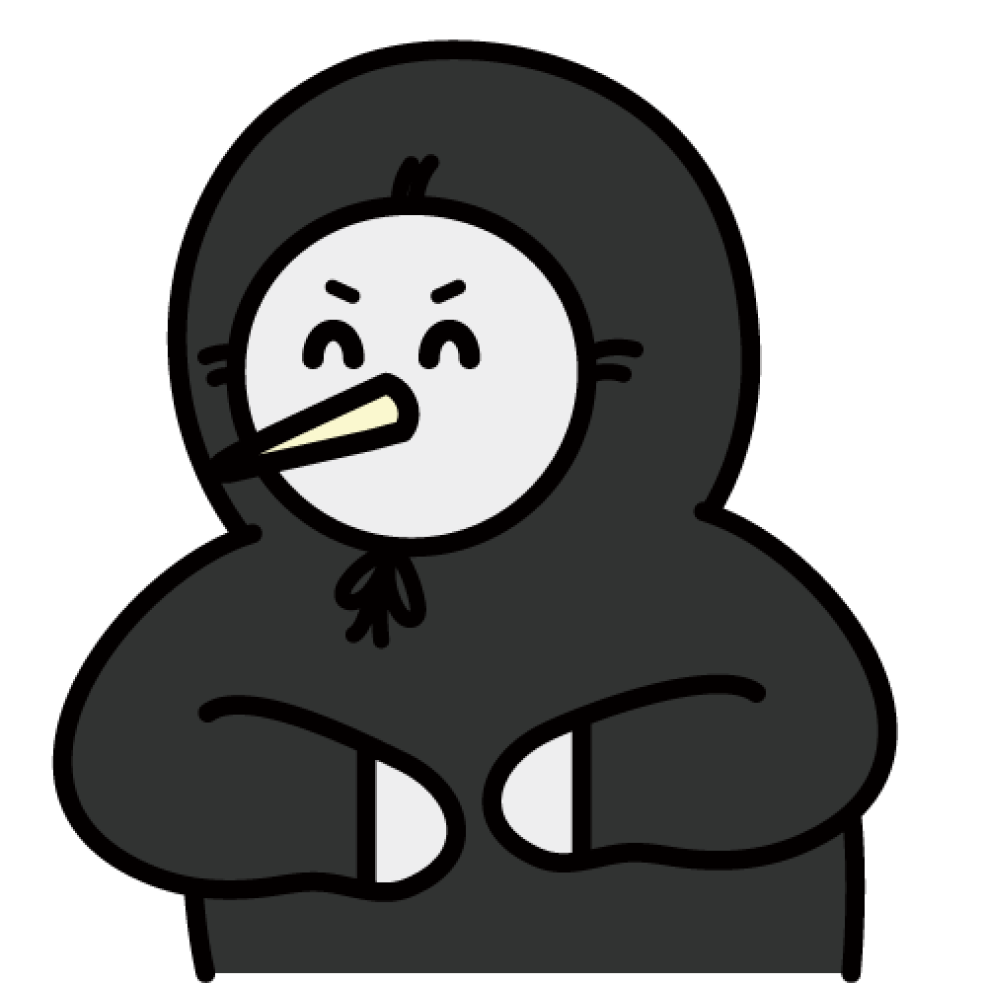
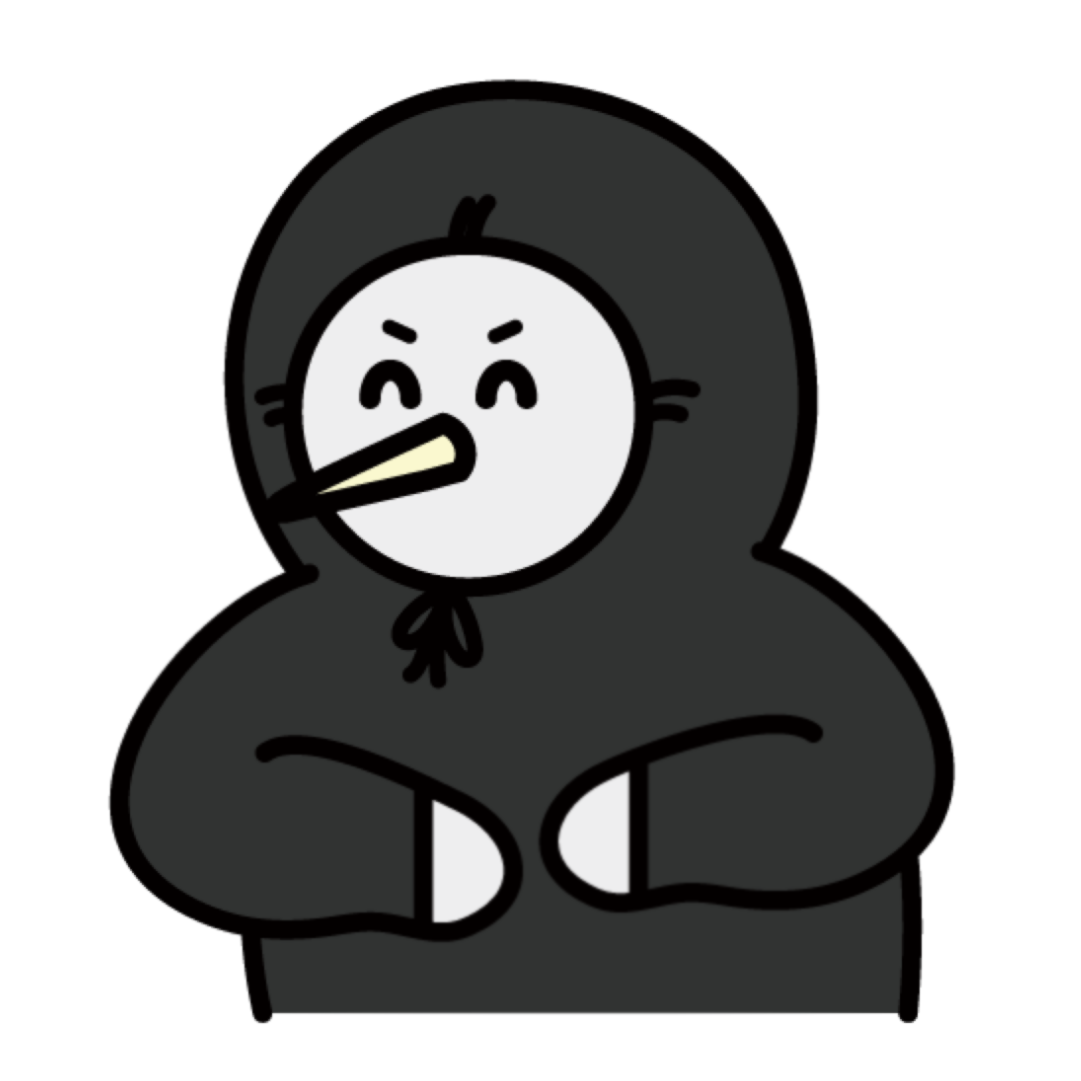
feat: 머쓱이 이미지 수정 (#182)
* design: 머쓱 테이블 및 이미지 변경

* design: 위치 틀어진 머쓱 이미지 수정

* design: 디폴트 머쓱 이미지 롤백

* design: 테이블 이미지 삭제

* fix: 메인페이지 머쓱이 이미지 나가는 버그 수정 및 스타일 정리

Changed region(s): [[0.0304, 0.0304, 0.9119, 1.0], [0.5775, 0.3343, 0.6687, 0.4255], [0.5471, 0.4255, 0.5775, 0.4863]]

diff --git a/packages/web/src/pages/Newpost/index.tsx b/packages/web/src/pages/Newpost/index.tsx
@@ -122,7 +122,7 @@ const NewPost = () => {
 
   return (
     <Box bgColor="bg01">
-      <Box p="2rem" margin="auto" w="100%" maxW="50rem" textAlign="center">
+      <Box p={{ base: '0.5rem', sm: '1rem', md: '2rem' }} margin="auto" w="100%" maxW="50rem" textAlign="center">
         <Text marginBottom="1rem" textAlign="left" fontSize="1.4rem" color="black">
           머쓱이 이름
         </Text>
@@ -162,40 +162,29 @@ const NewPost = () => {
         <Text textAlign="left" fontSize="1.4rem" color="black">
           머쓱이 테마
         </Text>
-        <Box
-          margin="auto"
-          h={{
-            base: '5rem',
-            '2xs': '16rem',
-            xs: '20rem',
-            sm: '25rem'
-          }}
-          p={4}>
+        <Box margin="auto" p={4} h={'90vw'} maxH={'25rem'} w={'90vw'} maxW={'25rem'} position={'relative'}>
           <Image
-            w="100%"
-            maxW="25rem"
-            mt={{
-              '2xs': '2rem'
-            }}
-            margin="auto"
             src={MUSSEUK[selected].src || musseuk_semicolon}
-            transform={MUSSEUK[selected].selectedTransform}
             alt="musseukImage"
+            m={'auto'}
+            position={'relative'}
+            zIndex={1}
+          />
+          <Box w={'50%'} h={'12%'} position={'absolute'} left={'25%'} bottom={'0%'} backgroundColor={'yellow.400'} />
+          <Box
+            w={'50%'}
+            h={'10%'}
+            borderRadius={'50%'}
+            bottom={'7%'}
+            left={'25%'}
+            position={'absolute'}
+            backgroundColor={'yellow.300'}
           />
         </Box>
         <Box cursor="pointer" bgColor="white" width="auto" borderRadius="10px" border="1px" borderColor="#D4D8CA">
           <Flex justify="center">
             {Object.entries(MUSSEUK).map(([key, value]) => (
-              <MusseukItem
-                key={key}
-                alt={key}
-                src={value.src}
-                transform={{
-                  base: value.smallTransform,
-                  sm: value.transform
-                }}
-                onClick={handleClickMusseuk}
-              />
+              <MusseukItem key={key} alt={key} src={value.src} onClick={handleClickMusseuk} />
             ))}
           </Flex>
         </Box>

diff --git a/packages/web/src/pages/Main/components/Description.tsx b/packages/web/src/pages/Main/components/Description.tsx
@@ -15,7 +15,8 @@ const Description = () => {
         }}
         fontSize={{
           base: '4xl'
-        }}>
+        }}
+        wordBreak={'keep-all'}>
         데브코스 익명 편지 전송 서비스
       </Heading>
       <Box
@@ -23,10 +24,17 @@ const Description = () => {
           base: 'center',
           lg: 'start'
         }}>
-        <Text fontSize="xl">팀원들에게 전하지 못한 말들이 있어 아쉽지 않으셨나요?</Text>
-        <Text fontSize="xl">다른 사람의 머쓱이에게 편지를 남겨보세요!</Text>
+        <Text fontSize="xl" wordBreak={'keep-all'}>
+          팀원들에게 전하지 못한 말들이 있어 아쉽지 않으셨나요?
+        </Text>
+        <Text fontSize="xl" wordBreak={'keep-all'}>
+          다른 사람의 머쓱이에게 편지를 남겨보세요!
+        </Text>
         <br />
-        <Text fontSize="xl"> 또는, 당신의 머쓱이를 만들어서 공유해보세요!</Text>
+        <Text fontSize="xl" wordBreak={'keep-all'}>
+          {' '}
+          또는, 당신의 머쓱이를 만들어서 공유해보세요!
+        </Text>
       </Box>
     </>
   );

diff --git a/packages/web/src/pages/Main/components/MusseukImage.tsx b/packages/web/src/pages/Main/components/MusseukImage.tsx
@@ -15,22 +15,22 @@ const MusseukImage = () => {
         }}
         w={{
           base: '90%',
-          lg: '40rem'
+          lg: 'auto'
         }}
         h={{
           base: 'auto',
-          lg: '30rem'
+          lg: '24rem'
         }}
-        top="3.3rem"
+        top="8rem"
         right="1rem"
+        maxW={'24rem'}
         src={musseuk_semicolon}
         alt="musseuk_semicolon"
       />
       <Box
         height={{
           base: '0',
-          lg: '10rem',
-          '2xl': '0'
+          lg: '5rem'
         }}
       />
     </>

diff --git a/packages/web/src/pages/Main/index.tsx b/packages/web/src/pages/Main/index.tsx
@@ -23,7 +23,11 @@ const Main = () => {
 
   return (
     <>
-      <Box w="100%" bgGradient="linear-gradient(180deg, #C6FFC1 0%, #F5FFE2 100%)" p="3rem">
+      <Box
+        w="100%"
+        bgGradient="linear-gradient(180deg, #C6FFC1 0%, #F5FFE2 100%)"
+        p={{ base: '1.5rem', md: '3rem' }}
+        overflow={'hidden'}>
         <Description />
         <MusseukImage />
         <MusseukButton />
